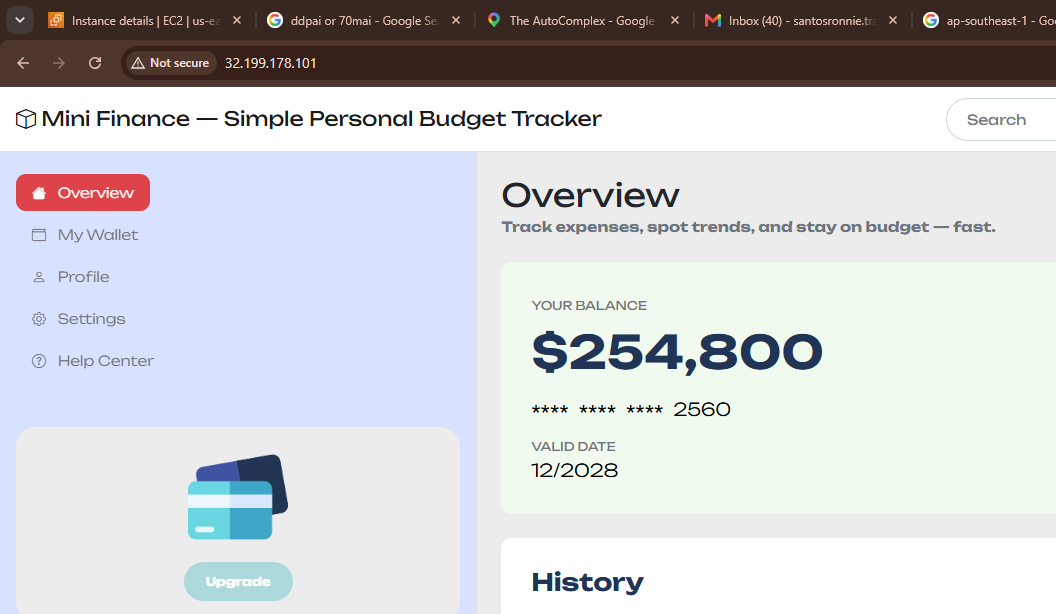
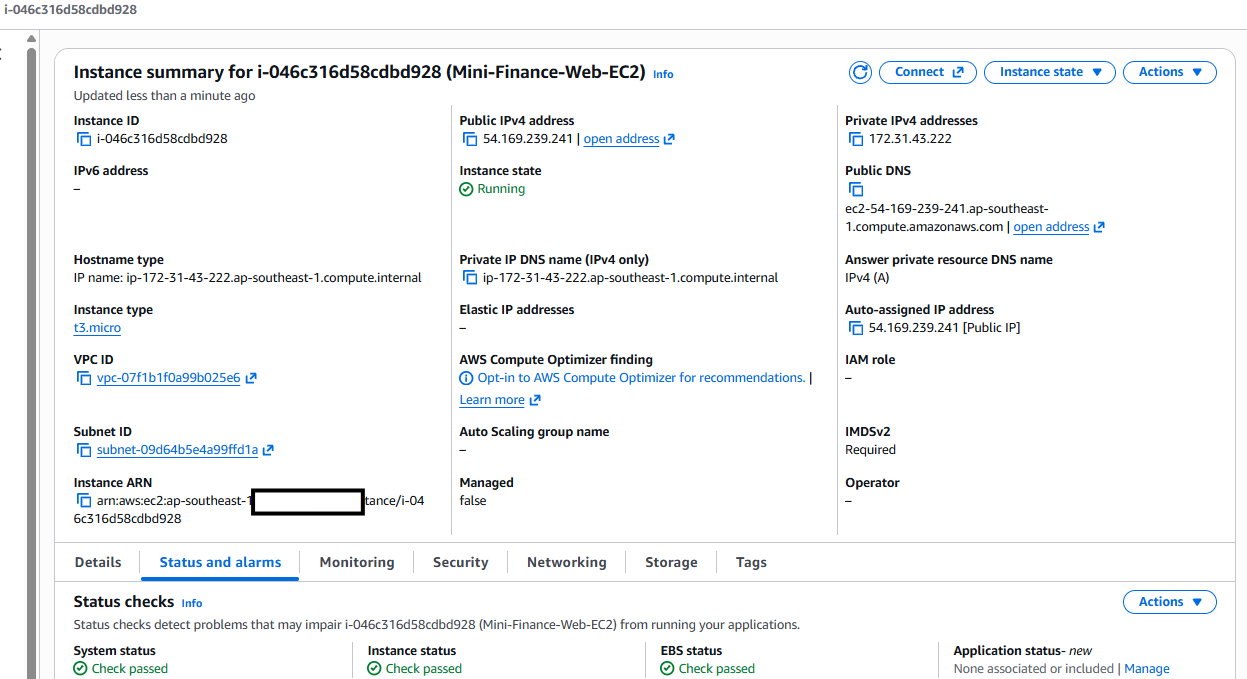
fix w6 102526

diff --git a/week-06-aws-cloud/assignment-03-deploy-mini-finance-website-on-aws-virtual-machine.md b/week-06-aws-cloud/assignment-03-deploy-mini-finance-website-on-aws-virtual-machine.md
@@ -112,7 +112,7 @@ Verify the Nginx configuration, restart the service, and test the website locall
 
 Paste your complete website URL using the format `http://<EC2_PUBLIC_IP>`:
 
-http://32.199.178.101/
+http://54.169.239.241/
 
 ---
 
@@ -139,7 +139,7 @@ Add the credit note for your track, replace `YOUR-GITHUB-USERNAME` with your Git
 
 Paste your LinkedIn post URL here:
 
-http://32.199.178.101/
+http://54.169.239.241/
 
 ---
 
@@ -163,13 +163,13 @@ Add your screenshot here.
 # Completion Checklist
 
 - [✓] Task 1: Ubuntu EC2 instance launched in a public subnet with a public IPv4 address and passed status checks (Screenshot 1)
-- [ ] Task 2: SSH allowed from my IP only and HTTP allowed publicly (Screenshot 2)
+- [✓] Task 2: SSH allowed from my IP only and HTTP allowed publicly (Screenshot 2)
 - [✓] Task 3: Connected to the Ubuntu instance through SSH (Screenshot 3)
 - [✓] Task 4: Nginx and Git installed, Nginx active and enabled, and local HTTP response verified (Screenshot 4)
 - [✓] Task 5: Mini Finance repository cloned and website files inspected (Screenshot 5)
-- [ ] Task 6: Website files copied to `/var/www/html/` with ownership and permissions configured (Screenshot 6)
+- [✓] Task 6: Website files copied to `/var/www/html/` with ownership and permissions configured (Screenshot 6)
 - [✓] Task 7: Nginx configuration checked and live Mini Finance website verified (Screenshot 7)
-- [ ] Complete EC2 Public IP URL included
+- [✓] Complete EC2 Public IP URL included
 - [ ] LinkedIn post published with my website screenshot, website URL, and caption written in my own words
 - [✓] Required hashtags, track credit note, and tags included
 - [ ] LinkedIn Post URL and LinkedIn Screenshot 1 included
